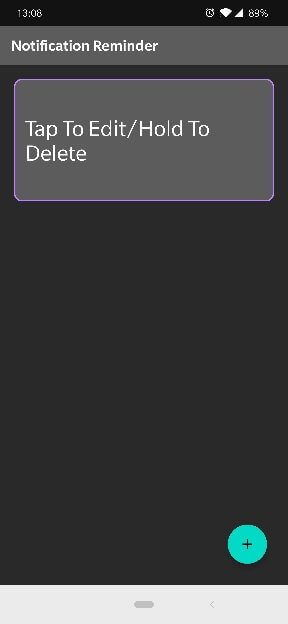
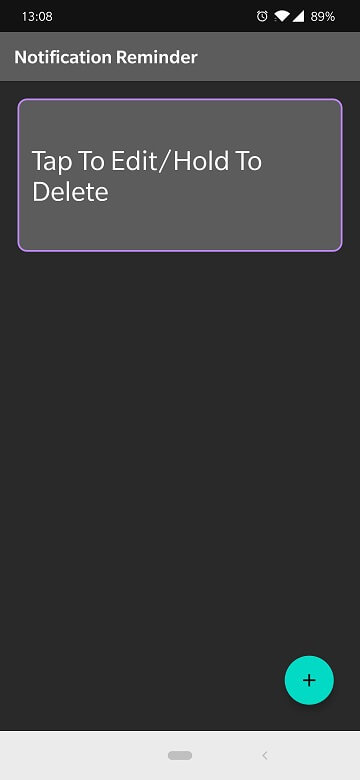
optimize notification reminder pictures

diff --git a/projects/apps.html b/projects/apps.html
@@ -133,25 +133,29 @@
           <li data-target="#carouselCopyText" data-slide-to="3"></li>
           <li data-target="#carouselCopyText" data-slide-to="4"></li>
           <li data-target="#carouselCopyText" data-slide-to="5"></li>
+          <li data-target="#carouselCopyText" data-slide-to="6"></li>
         </ol>
         <div class="carousel-inner">
           <div class="carousel-item active">
-            <img src="../pictures/apps/copy_text/home.png" class="img-fluid">
+            <img src="../pictures/apps/copy_text/home.jpg" class="img-fluid">
           </div>
           <div class="carousel-item">
-            <img src="../pictures/apps/copy_text/add.png" class="img-fluid">
+            <img src="../pictures/apps/copy_text/add.jpg" class="img-fluid">
           </div>
           <div class="carousel-item">
-            <img src="../pictures/apps/copy_text/dialog.png" class="img-fluid">
+            <img src="../pictures/apps/copy_text/dialog.jpg" class="img-fluid">
           </div>
           <div class="carousel-item">
-            <img src="../pictures/apps/copy_text/edit.png" class="img-fluid">
+            <img src="../pictures/apps/copy_text/edit.jpg" class="img-fluid">
           </div>
           <div class="carousel-item">
-            <img src="../pictures/apps/copy_text/changed.png" class="img-fluid">
+            <img src="../pictures/apps/copy_text/changed.jpg" class="img-fluid">
           </div>
           <div class="carousel-item">
-            <img src="../pictures/apps/copy_text/context_menu.png" class="img-fluid">
+            <img src="../pictures/apps/copy_text/copied.jpg" class="img-fluid">
+          </div>
+          <div class="carousel-item">
+            <img src="../pictures/apps/copy_text/context_menu.jpg" class="img-fluid">
           </div>
         </div>
         <a class="carousel-control-prev" href="#carouselCopyText" role="button" data-slide="prev">
